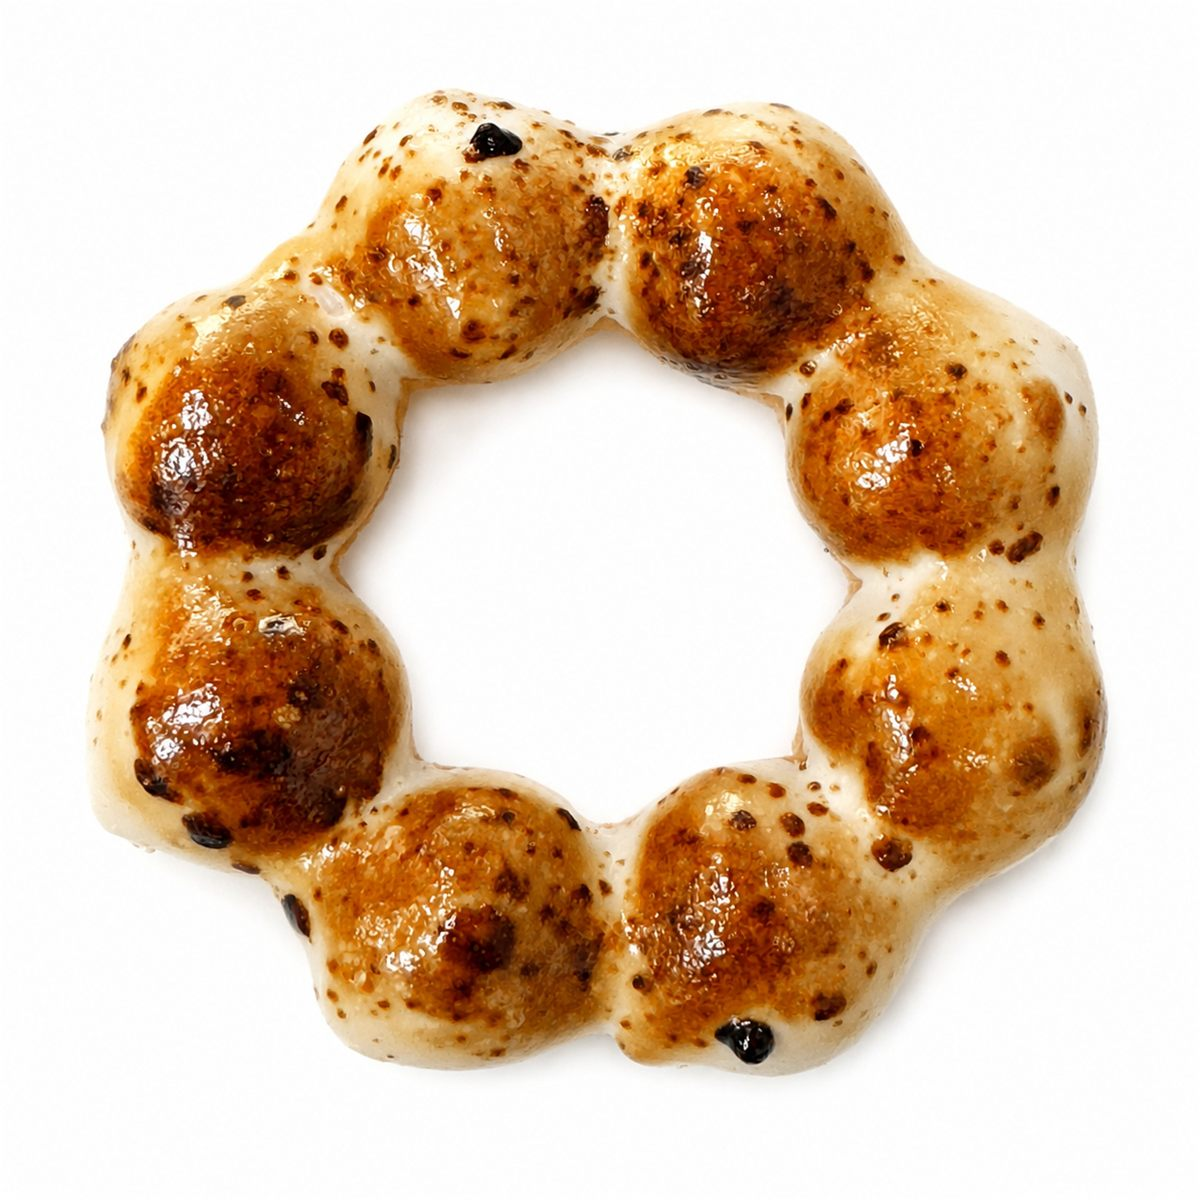
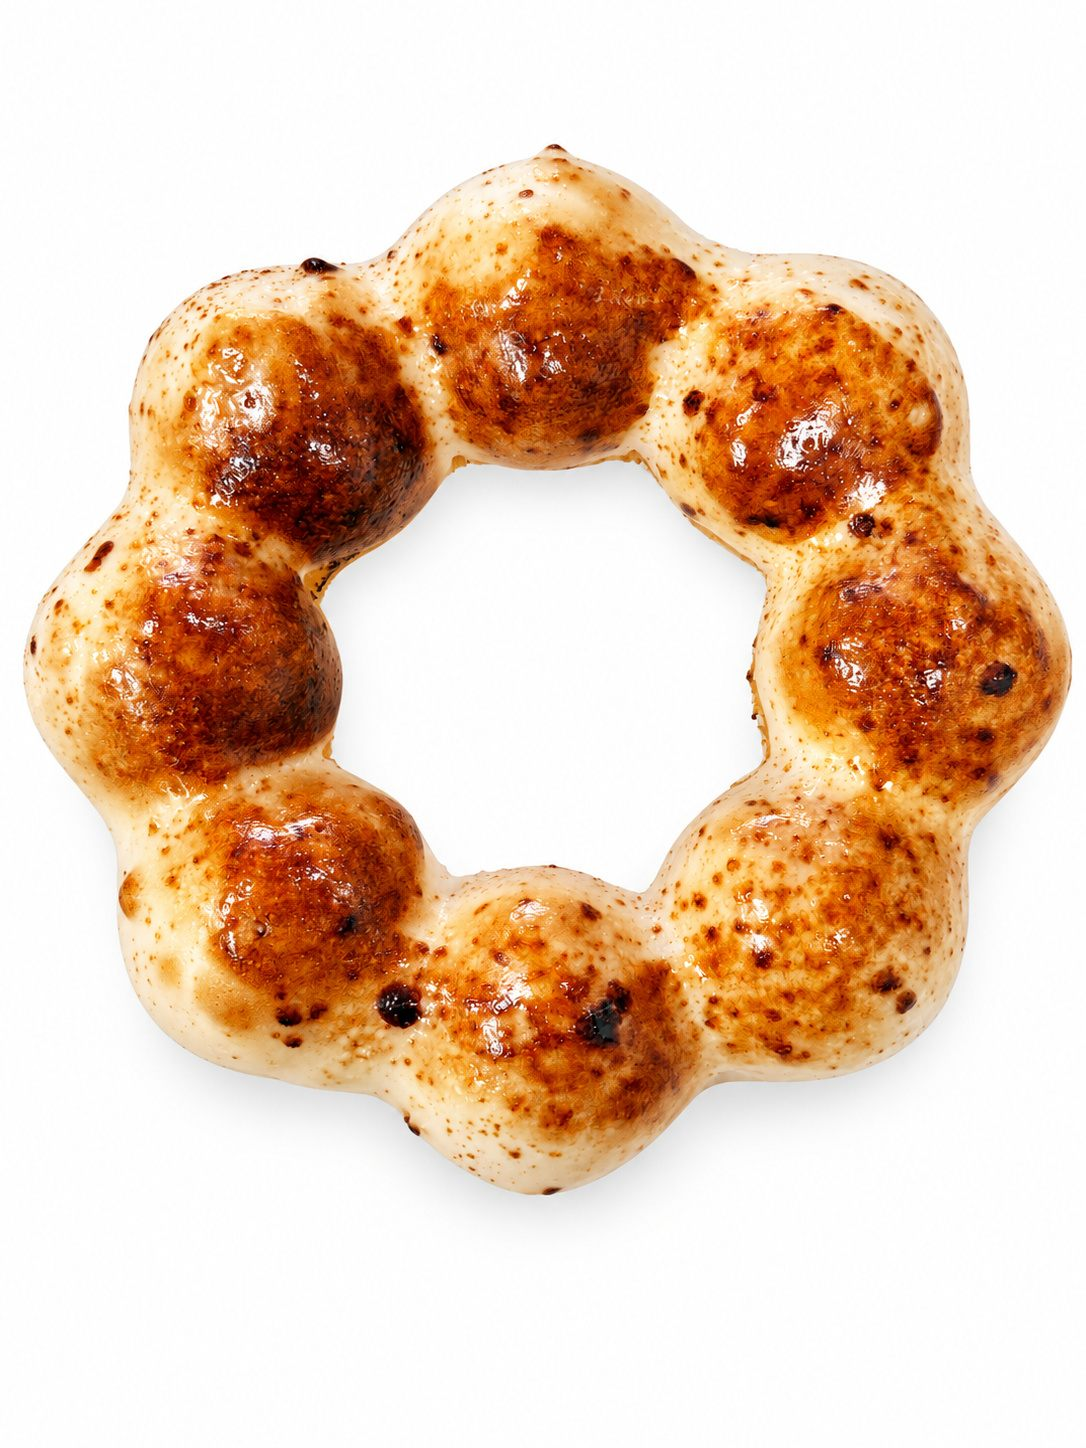
Add files via upload

diff --git a/index.html b/index.html
@@ -442,7 +442,7 @@
     <div class="week-redesign">
       <div class="week-hero-split">
         <div class="week-hero-photo" id="week-feature-card">
-          <img class="week-hero-img" id="week-feature-img" src="LavenderLemonCookie-hero.jpg" alt="Lavender Lemon Cookie mochi donut" loading="lazy"/>
+          <img class="week-hero-img" id="week-feature-img" src="CookieButter-hero.jpg" alt="Cookie Butter mochi donut" loading="lazy"/>
           <div class="week-hero-scrim"></div>
           <svg class="week-doodle week-doodle-1" viewBox="0 0 60 60" aria-hidden="true"><circle cx="30" cy="30" r="20" fill="none" stroke="#fff" stroke-width="2" opacity=".5"/><circle cx="30" cy="30" r="7" fill="none" stroke="#fff" stroke-width="2" opacity=".5"/></svg>
           <svg class="week-doodle week-doodle-2" viewBox="0 0 60 70" aria-hidden="true"><path d="M14 22h32l-4 40a4 4 0 0 1-4 4H22a4 4 0 0 1-4-4z" fill="none" stroke="#fff" stroke-width="2" opacity=".5"/><path d="M20 22a10 10 0 0 1 20 0" fill="none" stroke="#fff" stroke-width="2" opacity=".5"/></svg>
@@ -450,7 +450,7 @@
           <button class="week-arrow week-arrow-onphoto-right" data-dir="next" aria-label="Next flavor">&#8250;</button>
           <div class="week-hero-overlay">
             <span class="week-feature-badge" id="week-feature-badge">Featured Flavor</span>
-            <h3 class="week-feature-name" id="week-feature-name">Lavender Lemon Cookie</h3>
+            <h3 class="week-feature-name" id="week-feature-name">Cookie Butter</h3>
             <p class="week-feature-desc" id="week-feature-desc" style="display:none"></p>
             <div class="week-feature-icons">
               <div class="wfi wfi-onphoto"><svg viewBox="0 0 24 24" fill="none" stroke="currentColor" stroke-width="1.8" stroke-linecap="round" stroke-linejoin="round"><circle cx="12" cy="12" r="9"/><path d="M12 7v5l3 3"/></svg><span>Made Fresh Daily</span></div>
@@ -465,7 +465,7 @@
         <div class="week-side fade-in-scroll">
           <svg class="week-side-icon" viewBox="0 0 24 24" fill="none" stroke="var(--pink)" stroke-width="1.8" stroke-linecap="round" stroke-linejoin="round" aria-hidden="true"><circle cx="12" cy="12" r="9"/><circle cx="12" cy="12" r="3"/></svg>
           <span class="tag">Mochi Donuts</span>
-          <h2 class="week-h2 week-side-name" id="week-side-name">Lavender Lemon Cookie <span class="week-heart">&#9825;</span></h2>
+          <h2 class="week-h2 week-side-name" id="week-side-name">Cookie Butter <span class="week-heart">&#9825;</span></h2>
           <p class="week-desc week-side-desc" id="week-side-desc">Handcrafted fresh every morning in small batches with lots of love.</p>
           <div class="week-side-btns">
             <a href="https://bestiesboba.square.site/" target="_blank" rel="noopener noreferrer"><button class="btn-fill btn-big btn-icon"><svg viewBox="0 0 24 24" fill="none" stroke="currentColor" stroke-width="2" stroke-linecap="round" stroke-linejoin="round"><path d="M6 2 3 6v14a2 2 0 0 0 2 2h14a2 2 0 0 0 2-2V6l-3-4Z"/><path d="M3 6h18"/><path d="M16 10a4 4 0 0 1-8 0"/></svg>Order Now</button></a>
@@ -479,15 +479,15 @@
         <div class="week-thumb-row">
         <button class="week-arrow week-arrow-small" data-dir="prev" aria-label="Previous flavor">&#8249;</button>
         <div class="week-thumbs" id="week-thumbs">
-          <button class="week-thumb is-active" data-index="0" data-img="LavenderLemonCookie-hero.jpg" data-name="Lavender Lemon Cookie" data-desc="" data-badge="Featured Flavor"><img src="LavenderLemonCookie-thumb.jpg" alt="Lavender Lemon Cookie" loading="lazy"/></button>
-          <button class="week-thumb" data-index="1" data-img="PumpkinSpiceCheesecake-hero.jpg" data-name="Pumpkin Spice Cheesecake" data-desc="" data-badge=""><img src="PumpkinSpiceCheesecake-thumb.jpg" alt="Pumpkin Spice Cheesecake" loading="lazy"/></button>
-          <button class="week-thumb" data-index="2" data-img="MintOreo-hero.jpg" data-name="Mint Oreo" data-desc="" data-badge=""><img src="MintOreo-thumb.jpg" alt="Mint Oreo" loading="lazy"/></button>
-          <button class="week-thumb" data-index="3" data-img="FunnelCakeChocolateDip-hero.jpg" data-name="Funnel Cake + Chocolate Dip" data-desc="" data-badge=""><img src="FunnelCakeChocolateDip-thumb.jpg" alt="Funnel Cake + Chocolate Dip" loading="lazy"/></button>
-          <button class="week-thumb" data-index="4" data-img="TaroFruityPebbles-hero.jpg" data-name="Taro Fruity Pebbles" data-desc="" data-badge=""><img src="TaroFruityPebbles-thumb.jpg" alt="Taro Fruity Pebbles" loading="lazy"/></button>
+          <button class="week-thumb is-active" data-index="0" data-img="CookieButter-hero.jpg" data-name="Cookie Butter" data-desc="" data-badge="Featured Flavor"><img src="CookieButter-thumb.jpg" alt="Cookie Butter" loading="lazy"/></button>
+          <button class="week-thumb" data-index="1" data-img="MMs-hero.jpg" data-name="M&amp;M&rsquo;s" data-desc="" data-badge=""><img src="MMs-thumb.jpg" alt="M&amp;M&rsquo;s" loading="lazy"/></button>
+          <button class="week-thumb" data-index="2" data-img="Oreo-hero.jpg" data-name="Oreo" data-desc="" data-badge=""><img src="Oreo-thumb.jpg" alt="Oreo" loading="lazy"/></button>
+          <button class="week-thumb" data-index="3" data-img="ChocolateCoveredStrawberry-hero.jpg" data-name="Chocolate Covered Strawberry" data-desc="" data-badge=""><img src="ChocolateCoveredStrawberry-thumb.jpg" alt="Chocolate Covered Strawberry" loading="lazy"/></button>
+          <button class="week-thumb" data-index="4" data-img="CremeBrulee-hero.jpg" data-name="Cr&egrave;me Br&ucirc;l&eacute;e" data-desc="" data-badge=""><img src="CremeBrulee-thumb.jpg" alt="Cr&egrave;me Br&ucirc;l&eacute;e" loading="lazy"/></button>
           <button class="week-thumb" data-index="5" data-img="Churro-hero.jpg" data-name="Churro" data-desc="" data-badge=""><img src="Churro-thumb.jpg" alt="Churro" loading="lazy"/></button>
-          <button class="week-thumb" data-index="6" data-img="ChocoPandas-hero.jpg" data-name="Choco Pandas" data-desc="" data-badge=""><img src="ChocoPandas-thumb.jpg" alt="Choco Pandas" loading="lazy"/></button>
-          <button class="week-thumb" data-index="7" data-img="StrawberryFrostedFlakes-hero.jpg" data-name="Strawberry Frosted Flakes" data-desc="" data-badge=""><img src="StrawberryFrostedFlakes-thumb.jpg" alt="Strawberry Frosted Flakes" loading="lazy"/></button>
-          <button class="week-thumb" data-index="8" data-img="ChocolateChip-hero.jpg" data-name="Chocolate Chip" data-desc="" data-badge=""><img src="ChocolateChip-thumb.jpg" alt="Chocolate Chip" loading="lazy"/></button>
+          <button class="week-thumb" data-index="6" data-img="ToffeeCoffee-hero.jpg" data-name="Toffee Coffee" data-desc="" data-badge=""><img src="ToffeeCoffee-thumb.jpg" alt="Toffee Coffee" loading="lazy"/></button>
+          <button class="week-thumb" data-index="7" data-img="GrapeCottonCandy-hero.jpg" data-name="Grape Cotton Candy" data-desc="" data-badge=""><img src="GrapeCottonCandy-thumb.jpg" alt="Grape Cotton Candy" loading="lazy"/></button>
+          <button class="week-thumb" data-index="8" data-img="Taro-hero.jpg" data-name="Taro" data-desc="" data-badge=""><img src="Taro-thumb.jpg" alt="Taro" loading="lazy"/></button>
         </div>
         <button class="week-arrow week-arrow-small" data-dir="next" aria-label="Next flavor">&#8250;</button>
         </div>
